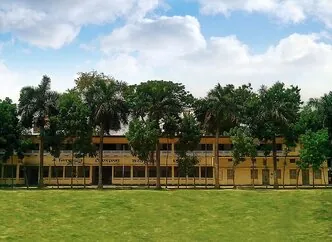
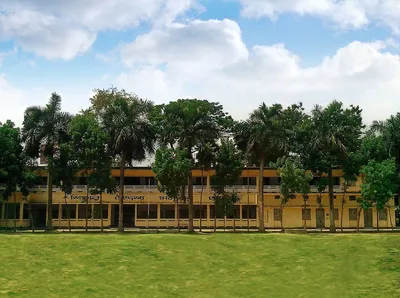
Add institution campus photos to Education section
Replace text abbreviations (AIUB, GAHC, BZS) with actual campus
photos from Wikimedia Commons. Images converted to WebP format.

diff --git a/src/components/Education.tsx b/src/components/Education.tsx
@@ -8,7 +8,7 @@ interface EducationItem {
   location: string;
   period: string;
   status: 'Pursuing' | 'Completed';
-  logo: string;
+  image: string;
 }
 
 const educationData: EducationItem[] = [
@@ -18,7 +18,7 @@ const educationData: EducationItem[] = [
     location: 'AIUB',
     period: '2022 - 2026',
     status: 'Pursuing',
-    logo: 'AIUB',
+    image: 'university',
   },
   {
     institution: 'Govt. Azizul Haque College',
@@ -26,7 +26,7 @@ const educationData: EducationItem[] = [
     location: 'Bogura',
     period: '2019 - 2021',
     status: 'Completed',
-    logo: 'GAHC',
+    image: 'college',
   },
   {
     institution: 'Bogra Zilla School',
@@ -34,7 +34,7 @@ const educationData: EducationItem[] = [
     location: 'Bogura',
     period: '2011 - 2019',
     status: 'Completed',
-    logo: 'BZS',
+    image: 'school',
   },
 ];
 
@@ -92,10 +92,15 @@ export function Education() {
                   <div className="relative z-10 flex flex-col md:flex-row md:items-center gap-6">
                     {/* Logo/Icon */}
                     <div className="flex-shrink-0">
-                      <div className="w-20 h-20 md:w-24 md:h-24 rounded-2xl bg-gradient-to-br from-violet-500/20 to-amber-500/10 border border-white/10 flex items-center justify-center">
-                        <span className="text-2xl md:text-3xl font-display font-bold gradient-text">
-                          {edu.logo}
-                        </span>
+                      <div className="w-20 h-20 md:w-24 md:h-24 rounded-2xl bg-gradient-to-br from-violet-500/20 to-amber-500/10 border border-white/10 overflow-hidden">
+                        <img
+                          src={`/images/education/${edu.image}.webp`}
+                          alt={edu.institution}
+                          width={96}
+                          height={96}
+                          loading="lazy"
+                          className="w-full h-full object-cover"
+                        />
                       </div>
                     </div>
 
